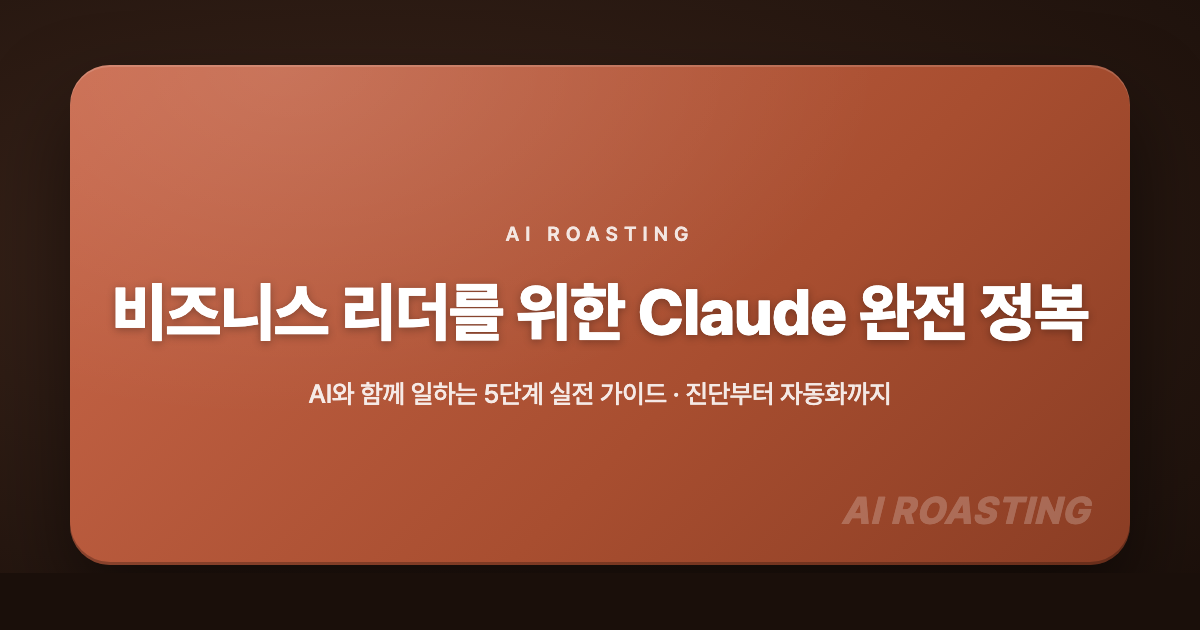
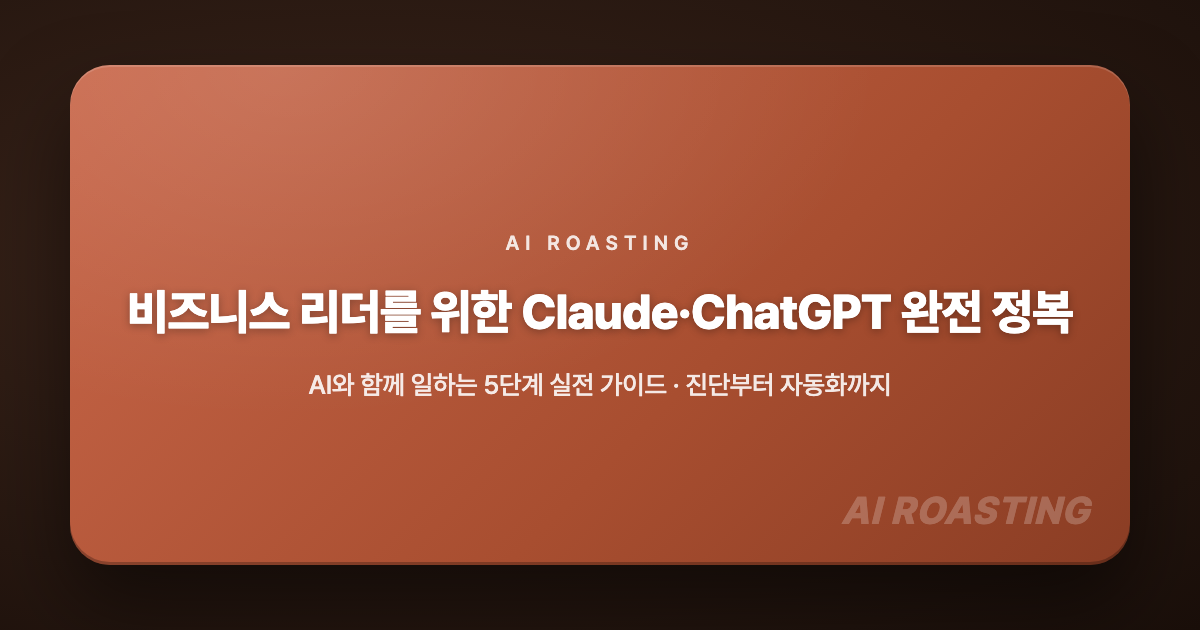
썸네일 제목에 ChatGPT 추가: Claude·ChatGPT 완전 정복

Changed region(s): [[0.0925, 0.4524, 0.925, 0.5429], [0.2467, 0.573, 0.74, 0.6635], [0.4008, 0.3619, 0.5858, 0.3921]]

diff --git a/docs/assets/thumbnails/thumbnail-source.html b/docs/assets/thumbnails/thumbnail-source.html
@@ -4,13 +4,13 @@
 <meta charset="UTF-8">
     <link rel="canonical" href="https://airoasting.github.io/claude_guide/assets/thumbnails/thumbnail-source.html">
     <meta property="og:title" content="AI ROASTING · AI 에이전트를 고용하라">
-    <meta property="og:description" content="비즈니스 리더를 위한 Claude 완전 정복 확장 프로그램부터 클로드 코드까지 5단계 실전 가이드">
+    <meta property="og:description" content="비즈니스 리더를 위한 Claude·ChatGPT 완전 정복. 대화를 실행으로 바꾸는 5단계 실전 가이드">
     <meta property="og:type" content="website">
     <meta property="og:image" content="https://airoasting.github.io/claude_guide/assets/thumbnails/thumbnail.png">
     <meta property="og:url" content="https://airoasting.github.io/claude_guide/assets/thumbnails/thumbnail-source.html">
     <meta name="twitter:card" content="summary_large_image">
     <meta name="twitter:title" content="AI ROASTING · AI 에이전트를 고용하라">
-    <meta name="twitter:description" content="비즈니스 리더를 위한 Claude 완전 정복 확장 프로그램부터 클로드 코드까지 5단계 실전 가이드">
+    <meta name="twitter:description" content="비즈니스 리더를 위한 Claude·ChatGPT 완전 정복. 대화를 실행으로 바꾸는 5단계 실전 가이드">
     <meta name="twitter:image" content="https://airoasting.github.io/claude_guide/assets/thumbnails/thumbnail.png">
 <title>Thumbnail</title>
 <style>
@@ -75,7 +75,7 @@
   }
   .title {
     color: #ffffff;
-    font-size: 64px;
+    font-size: 48px;
     font-weight: 900;
     letter-spacing: -0.02em;
     text-shadow: 0 2px 8px rgba(0,0,0,0.3);
@@ -103,7 +103,7 @@
 <body>
   <div class="card">
 <div class="eyebrow">AI ROASTING</div>
-    <div class="title">비즈니스 리더를 위한 Claude 완전 정복</div>
+    <div class="title">비즈니스 리더를 위한 Claude·ChatGPT 완전 정복</div>
     <div class="subtitle">AI와 함께 일하는 5단계 실전 가이드 · 진단부터 자동화까지</div>
     <div class="logo">AI ROASTING</div>
   </div>
